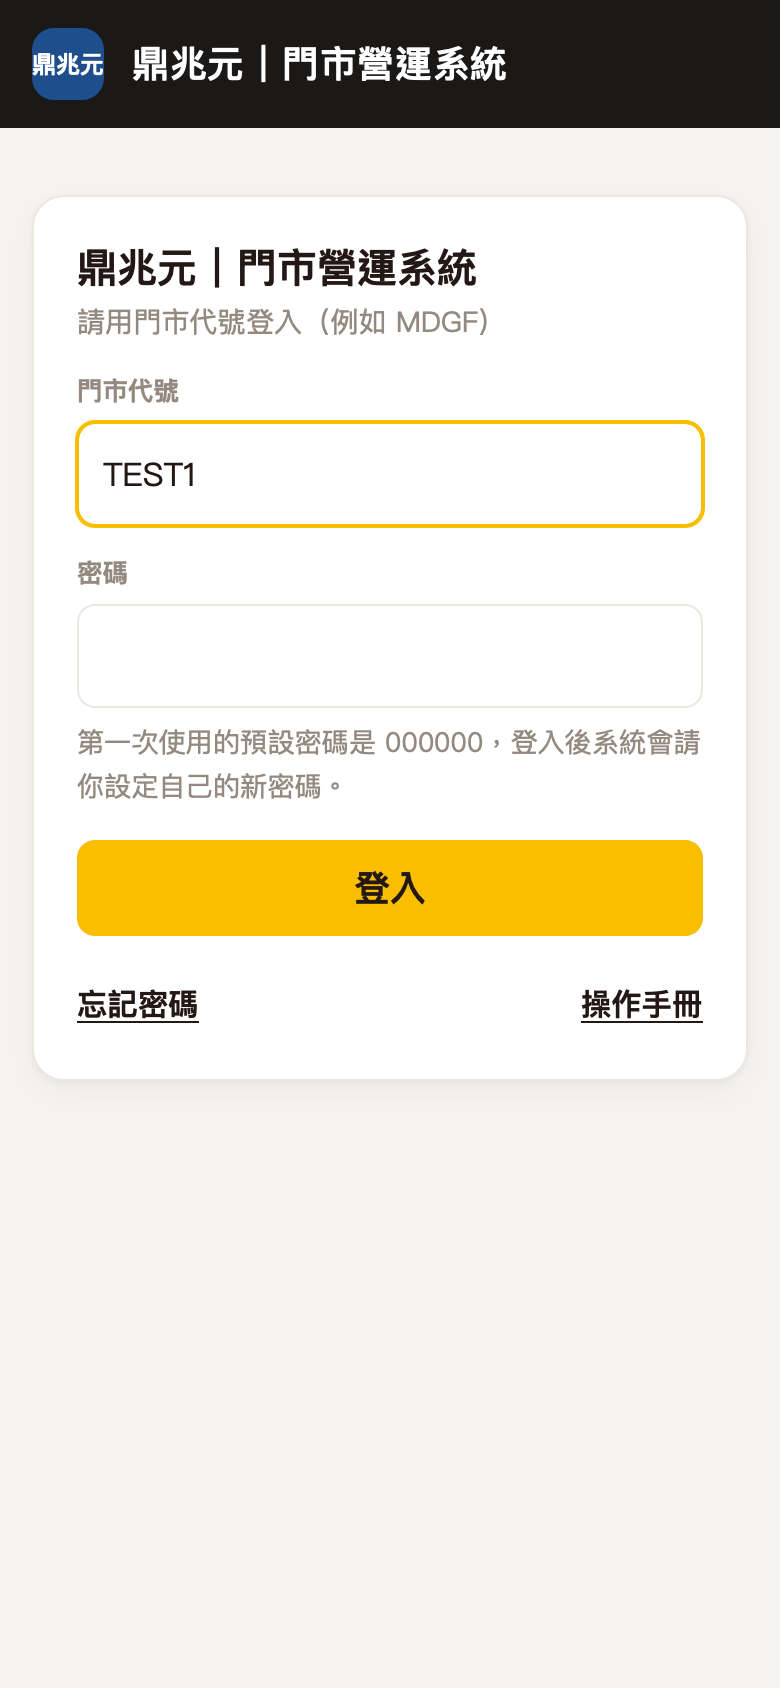
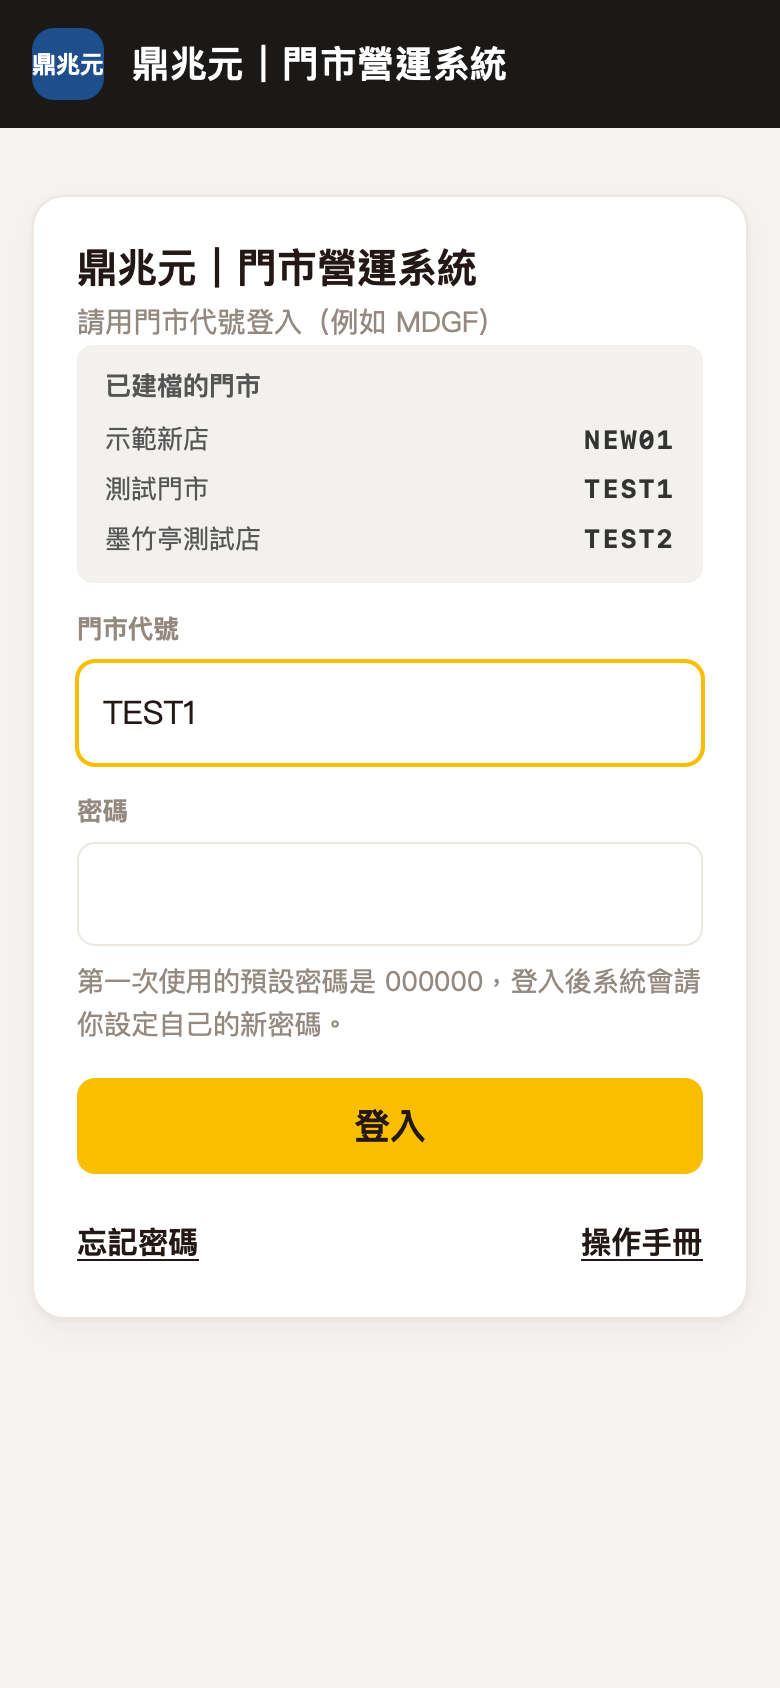
登入頁已建檔門市清單；操作手冊補自動排班（mala-store-ops 6cec345）

Changed region(s): [[0.0923, 0.2156, 0.9231, 0.7701], [0.7385, 0.2464, 0.8615, 0.3389], [0.8923, 0.2464, 0.9231, 0.3081]]

diff --git a/guide.html b/guide.html
@@ -36,12 +36,12 @@ footer{text-align:center;color:var(--muted);font-size:12.5px;margin-top:20px}
 <header><h1>門市操作手冊</h1><p>登入、貨單辨識、收支登記、出勤核定、耗損登記</p></header>
 <div class="wrap">
 <nav class="toc" aria-label="目錄"><b>想看哪一段</b>
-  <a href="#login">登入與改密碼</a><a href="#home">首頁</a><a href="#purchase">貨單辨識</a><a href="#cashbook">收支登記</a><a href="#duty">出勤核定</a><a href="#transfer">門市調撥</a><a href="#loss">耗損登記</a><a href="#inventory">庫存盤點</a><a href="#board">叫貨看板</a><a href="#staff">新進與離職同仁</a><a href="#help">遇到問題</a></nav>
+  <a href="#login">登入與改密碼</a><a href="#home">首頁</a><a href="#purchase">貨單辨識</a><a href="#cashbook">收支登記</a><a href="#duty">出勤核定</a><a href="#transfer">門市調撥</a><a href="#loss">耗損登記</a><a href="#inventory">庫存盤點</a><a href="#board">叫貨看板</a><a href="#schedule">自動排班</a><a href="#staff">新進與離職同仁</a><a href="#help">遇到問題</a></nav>
 
 <section id="login"><h2>一、登入與改密碼</h2>
   <h3>第一次登入</h3>
   <ol>
-    <li>輸入你們店的<b>門市代號</b>（管理者會告訴你）。</li>
+    <li>輸入你們店的<b>門市代號</b>。不記得的話，登入畫面上方的灰底框列有已建檔的門市和代號。</li>
     <li>密碼輸入 <code>000000</code>（六個零）。</li>
     <li>按 <span class="btn">登入</span>。</li>
     <li>系統會請你設定自己的新密碼：輸入目前的密碼 <code>000000</code>，再輸入兩次新密碼（至少 8 個字），按 <span class="btn">儲存新密碼</span>。</li>
@@ -171,8 +171,8 @@ footer{text-align:center;color:var(--muted);font-size:12.5px;margin-top:20px}
   <h3>員工名冊</h3>
   <p>切到 <b>員工名冊</b>：</p>
   <ul>
-    <li><b>新進同仁報到</b>：<b>建議改在「自動排班 › 同仁」新增</b>（見「十、新進與離職同仁」），可以一次填好報到日與正職／計時。這裡只建打卡帳號，建好後請他打開 LINE「鼎兆元打卡」綁定；舊版專屬打卡連結收在「舊版專屬打卡連結」裡，沒用 LINE 打卡的人才需要。</li>
-    <li><b>同仁異動</b>：選同仁按 <span class="btn">設為離職</span>，他立刻不能打卡，過去的紀錄都保留。設錯了，在「已離職」清單按 <span class="btn">恢復在職</span>。同仁要離職，請先看「十、新進與離職同仁」的順序。</li>
+    <li><b>新進同仁報到</b>：<b>建議改在「自動排班 › 同仁」新增</b>（見「十一、新進與離職同仁」），可以一次填好報到日與正職／計時。這裡只建打卡帳號，建好後請他打開 LINE「鼎兆元打卡」綁定；舊版專屬打卡連結收在「舊版專屬打卡連結」裡，沒用 LINE 打卡的人才需要。</li>
+    <li><b>同仁異動</b>：選同仁按 <span class="btn">設為離職</span>，他立刻不能打卡，過去的紀錄都保留。設錯了，在「已離職」清單按 <span class="btn">恢復在職</span>。同仁要離職，請先看「十一、新進與離職同仁」的順序。</li>
   </ul>
   <h3>公告</h3>
   <p>切到 <b>公告</b>：輸入內容（最多 120 字），需要時選「顯示到」的日期（留空＝一直顯示），按 <span class="btn">發布公告</span>，同仁打卡頁最上方就會看到。下面的清單可以按 <span class="btn">下架</span>，之後也能按 <span class="btn">重新顯示</span>。</p>
@@ -299,7 +299,73 @@ footer{text-align:center;color:var(--muted);font-size:12.5px;margin-top:20px}
   <figure class="shot"><img src="img/guide/27-board-detail.jpg" width="780" height="1688" loading="lazy" alt="點當期使用的數字，跳出每天用量明細"><figcaption>點數字看每天明細</figcaption></figure>
 </section>
 
-<section id="staff"><h2>十、新進與離職同仁</h2>
+<section id="schedule"><h2>十、自動排班</h2>
+  <p>每店自己排自己的班。以<b>四週（28 天）為一期</b>，每期從星期日開始、到第四週的星期六結束；11/1 起是 T01，之後 T02、T03 依序往下（T00 是 10 月的試排期，不送 LINE）。排好、鎖定之後，同仁在 LINE「鼎兆元打卡」的出勤班表就看得到。</p>
+  <p>上方有四個分頁：<b>班表</b>、<b>指定與需求</b>、<b>同仁</b>、<b>班別與設定</b>。第一次使用請照下面的順序設定，之後每一期只要做「每期要做的事」。</p>
+
+  <h3>第一次使用：先設定好</h3>
+  <ol>
+    <li><b>班別與設定</b>：每個班填名稱、上班、下班（下班時間早於上班＝隔天下班）、休息幾分鐘，按 <span class="btn">新增班別</span>。已建的班改完按 <span class="btn">儲存</span>；不再用的班取消勾選「使用中」。</li>
+    <li>同一頁下面填<b>每工時營業額目標</b>（可空白）。班表上低於目標會標橘色。</li>
+    <li><b>同仁</b>：確認每個人都設了<b>正職或計時</b>、填了<b>報到日期</b>，卡片上有紅字「還沒設正職或計時」「還沒填報到日期」的要補，否則排不到他。只能上某幾個班的人，勾「只能上的班」。新進、離職怎麼做見「十一、新進與離職同仁」。</li>
+    <li>有 LINE 打卡的店，<b>排 T01（11 月第一期）之前</b>在 <b>同仁</b> 按一次 <span class="btn">帶入 10/19–10/31 實際出勤</span>，系統才能接著算連續上班天數與換班間隔。</li>
+    <li>同一頁下面的<b>不要排在同一班的兩個人</b>：兩個人不能同時上班（例如要錯開的夫妻、師徒）就加一組。</li>
+    <li><b>指定與需求</b>：在「每天各班要幾個人」填平日、週六、週日每個班<b>最少</b>幾人（最多可空白＝不限），按 <span class="btn">儲存人數範本</span>。設一次，之後每一期都照這個排。</li>
+  </ol>
+  <div class="tip">班別規定：一個班沒排休息最多 6 小時，超過要排至少 30 分鐘休息才能存；4～6 小時沒排休息可以存，但要在上班時間內讓同仁輪流休息 30 分鐘。</div>
+
+  <h3>每期要做的事</h3>
+  <ol>
+    <li><b>先登記要休的日子</b>：到 <b>指定與需求</b> 的「指定休假、指定上班」，選同仁，點日期。每點一下依序切換：沒指定 → <b>休</b> → <b>上</b> → 各班別 → 沒指定。指定過的格子自動排班不會動。</li>
+    <li>國定假日、活動日要多排或少排人：在「個別日期另外設人數」選日期、改人數，按 <span class="btn">儲存這一天</span>；要改回來按 <span class="btn">改回範本</span>。</li>
+    <li>到 <b>班表</b>，用左右箭頭 <span class="btn">‹</span> <span class="btn">›</span> 切到要排的那一期，按 <span class="btn">自動排班</span>。系統會依人數需求、指定休假與勞基法規定排好整期。</li>
+    <li>要手動改某一格：點那一格（手機在「單日」畫面點那個人），下方會出現選單，選班別、例假、休息日、特休、補休或清空，按 <span class="btn">套用</span>。</li>
+    <li>手動改過的格子，之後再按自動排班也會保留。真的要全部重排，勾「連手動改過的也重排」再按 <span class="btn">自動排班</span>。</li>
+    <li>填每個月的<b>預估營業額</b>，旁邊會算出每工時營業額（月營業額 ÷ 當月全店排班工時）。</li>
+    <li>打開「提醒」看檢查結果：<b>要修正</b>（紅）一定要改掉才能鎖定；<b>警告</b>（橘）、<b>提醒</b>可以鎖定，但請確認過。</li>
+    <li>沒有紅字後按 <span class="btn">鎖定並發布</span>，輸入<b>出勤核定密碼</b>（同一次登入只問一次）。上方標籤變「已發布到 LINE」就完成了。</li>
+  </ol>
+
+  <h3>怎麼看班表</h3>
+  <ul>
+    <li><b>整期／單日</b>：右上角切換。電腦適合看「整期」一張大表；手機預設「單日」，上方點日期切換，有警告的日期會標色。</li>
+    <li><b>當天人數</b>：寫「3/4」代表排了 3 人、至少要 4 人，不夠會標色。</li>
+    <li>格子顏色就是班別顏色；寫「生日」是同仁當天生日。休息日排了班，選單裡寫「（休息日出勤）」，要算加班費。</li>
+    <li><b>匯出 PDF</b>：會切到整期大表、跳出列印視窗，選「儲存為 PDF」或直接列印（橫式 A4）。</li>
+  </ul>
+
+  <h3>已經鎖定還要改</h3>
+  <ol>
+    <li>按 <span class="btn">解除鎖定</span>（要出勤核定密碼）。<b>解除後同仁在 LINE 上會暫時看不到這一期</b>，請盡快改好。</li>
+    <li>改好後再按 <span class="btn">鎖定並發布</span>，LINE 上會換成新的班表。</li>
+  </ol>
+
+  <h3>系統會幫你檢查的規定</h3>
+  <ul>
+    <li><b>正職</b>：四週變形工時，每期目標 160 小時；超過 160 小時只提醒（超過的算加班）。最多連續上 12 天；人手不夠時，系統會把休息日排成「休息日加班」，每人每期最多 2 天。</li>
+    <li><b>計時</b>：每 7 天算一週，第 6 天上班會警告（要付加班費），第 7 天不能排。</li>
+    <li>兩個班之間至少隔 <b>12 小時</b>（例如晚班下班到隔天早班上班）。</li>
+    <li>每月加班超過 46 小時只提醒，不會擋。</li>
+    <li>同仁卡片上會顯示他依年資可休的特休天數（計時依工時比例，以小時計）；只是顯示，請假仍照原本方式。</li>
+  </ul>
+
+  <h3>看到這些訊息時</h3>
+  <ul>
+    <li><b>還有 N 個地方不合規定，修正後才能鎖定</b>：打開「提醒」看紅字，改掉那幾格。</li>
+    <li><b>排不出來：…</b>：人手不夠或指定休假太多。照訊息減少指定休假、調低最少人數，或增加同仁可上的班。</li>
+    <li><b>這一期已鎖定，要先解除鎖定才能修改</b>：照上面「已經鎖定還要改」。</li>
+    <li><b>出勤核定密碼還是預設的 0000</b>：先到「出勤核定」改成自己的密碼，再回來鎖定。</li>
+    <li><b>送 LINE 失敗</b>／<b>等待送到 LINE</b>很久：按 <span class="btn">立即重送</span>；系統也會每 5 分鐘自動再試，首頁待辦會提醒。</li>
+    <li><b>這一期已發布，但上一期改過之後……不合規定了</b>：改了上一期，跨期的換班間隔或連續天數出問題。解除這一期的鎖定、修正後再鎖定。</li>
+    <li><b>這家店沒有 LINE 打卡，鎖定不送 LINE</b>：例如墨竹亭六張犁，班表照樣可以排、可以匯出 PDF。</li>
+  </ul>
+  <div class="tip">出勤核定會把同仁的實際打卡和班表比對：晚到、早退超過 15 分鐘會標橘色，只是提醒、不擋核定。</div>
+  <figure class="shot"><img src="img/guide/29-schedule-board.jpg" width="780" height="1688" loading="lazy" alt="自動排班 › 班表：期別切換、自動排班、鎖定並發布、單日清單"><figcaption>班表（手機單日畫面）</figcaption></figure>
+  <figure class="shot"><img src="img/guide/30-schedule-needs.jpg" width="780" height="1688" loading="lazy" alt="自動排班 › 指定與需求：每天各班要幾個人、指定休假"><figcaption>指定與需求</figcaption></figure>
+  <figure class="shot"><img src="img/guide/31-schedule-shifts.jpg" width="780" height="1688" loading="lazy" alt="自動排班 › 班別與設定：班別名稱、上下班、休息"><figcaption>班別與設定</figcaption></figure>
+</section>
+
+<section id="staff"><h2>十一、新進與離職同仁</h2>
   <p>同仁的報到、身分、離職都在 <b>自動排班 › 同仁</b> 處理。有打卡系統的店，系統會在背後同時建好打卡帳號，<b>不用再到「出勤核定 › 員工名冊」做一次</b>。</p>
   <h3>新進同仁</h3>
   <ol>
@@ -324,7 +390,7 @@ footer{text-align:center;color:var(--muted);font-size:12.5px;margin-top:20px}
   <figure class="shot"><img src="img/guide/28-schedule-hire.jpg" width="780" height="1688" loading="lazy" alt="自動排班 › 同仁：新增同仁"><figcaption>新增同仁</figcaption></figure>
 </section>
 
-<section id="help"><h2>十一、遇到問題</h2>
+<section id="help"><h2>十二、遇到問題</h2>
   <ul>
     <li><b>登入不了</b>：確認門市代號、密碼。忘記密碼請找管理者重設。被鎖住請等 15 分鐘。</li>
     <li><b>左側欄看不到某個系統</b>：那項功能還沒開給你們店，請洽管理者。</li>

diff --git a/js/shell.js b/js/shell.js
@@ -66,9 +66,15 @@ function frame(s, inner, nav, opts) {
 }
 
 // ---------- 登入 ----------
+// 已建檔門市清單（GET /ui 的 stores；連不上或沒有就不顯示）
+function storeListHtml() {
+  const list = Array.isArray(UI.stores) ? UI.stores : [];
+  if (!list.length) return '';
+  return `<div class="store-list" id="storeList"><div class="sl-ttl">已建檔的門市</div><ul>${list.map(x => `<li><span>${esc(x.name)}</span><b>${esc(x.code)}</b></li>`).join('')}</ul></div>`;
+}
 function viewLogin() {
   const main = frame(null, `<div class="page">${bannerHtml()}<div class="lcard"><h1>${esc(UI.systemName)}</h1>
-    <p class="muted">請用門市代號登入（例如 MDGF）</p>
+    <p class="muted">請用門市代號登入（例如 MDGF）</p>${storeListHtml()}
     <form id="loginForm" autocomplete="off"><label class="f" for="code">門市代號<input id="code" type="text" autocapitalize="characters" autocomplete="username" value="${esc(rememberedCode())}"></label>
     <label class="f" for="password">密碼<input id="password" type="password" autocomplete="current-password"></label>
     <p class="pwhint" id="pwHint">第一次使用的預設密碼是 000000，登入後系統會請你設定自己的新密碼。</p>

diff --git a/css/app.css b/css/app.css
@@ -338,6 +338,11 @@ select{min-height:44px}
 .login-view .login-links{margin-top:1rem;font-size:.95rem}
 .login-view .login-links a,.login-view .linkbtn{color:var(--black);font-weight:700;text-decoration:underline;text-underline-offset:3px}
 .login-view .note{margin:.8rem 0 0}
+.store-list{background:#f2f1ee;border-radius:8px;padding:10px 14px;margin:0 0 .6rem;font-size:13px;color:#555}
+.store-list .sl-ttl{font-weight:700;margin-bottom:4px}
+.store-list ul{list-style:none;margin:0;padding:0}
+.store-list li{display:flex;justify-content:space-between;gap:12px;padding:2px 0}
+.store-list li b{font-family:ui-monospace,Menlo,monospace;letter-spacing:1px;color:#333}
 @media (max-width:600px){
   .hdr{padding:.5rem 1rem}.hdr .logos .lg,.hdr .logos .txt{width:36px;height:36px}
   .login-view .page{padding:1.2rem 1rem 4rem}

diff --git a/js/mock.js b/js/mock.js
@@ -93,7 +93,12 @@ export async function handle(method, path, body, token) {
 }
 
 function route(method, p, q, b, token) {
-  if (method === 'GET' && p === '/ui') return ok(db.ui);
+  if (method === 'GET' && p === '/ui') {
+    const order = { mala: 1, mzt: 2, yiwu: 3, cf: 4 };
+    const stores = Object.values(db.accounts).filter(a => a.role === 'store' && a.active)   // 示範帳號都是 TEST 開頭，不套伺服器的測試店過濾
+      .sort((a, b) => (order[a.brand] || 5) - (order[b.brand] || 5) || (a.code < b.code ? -1 : a.code > b.code ? 1 : 0)).map(a => ({ code: a.code, name: a.name }));
+    return ok({ ...db.ui, stores });
+  }
   if (method === 'POST' && p === '/login') {
     const a = db.accounts[String(b.code || '').toUpperCase()];
     if (!a) return fail('AUTH', '代號或密碼不對');
